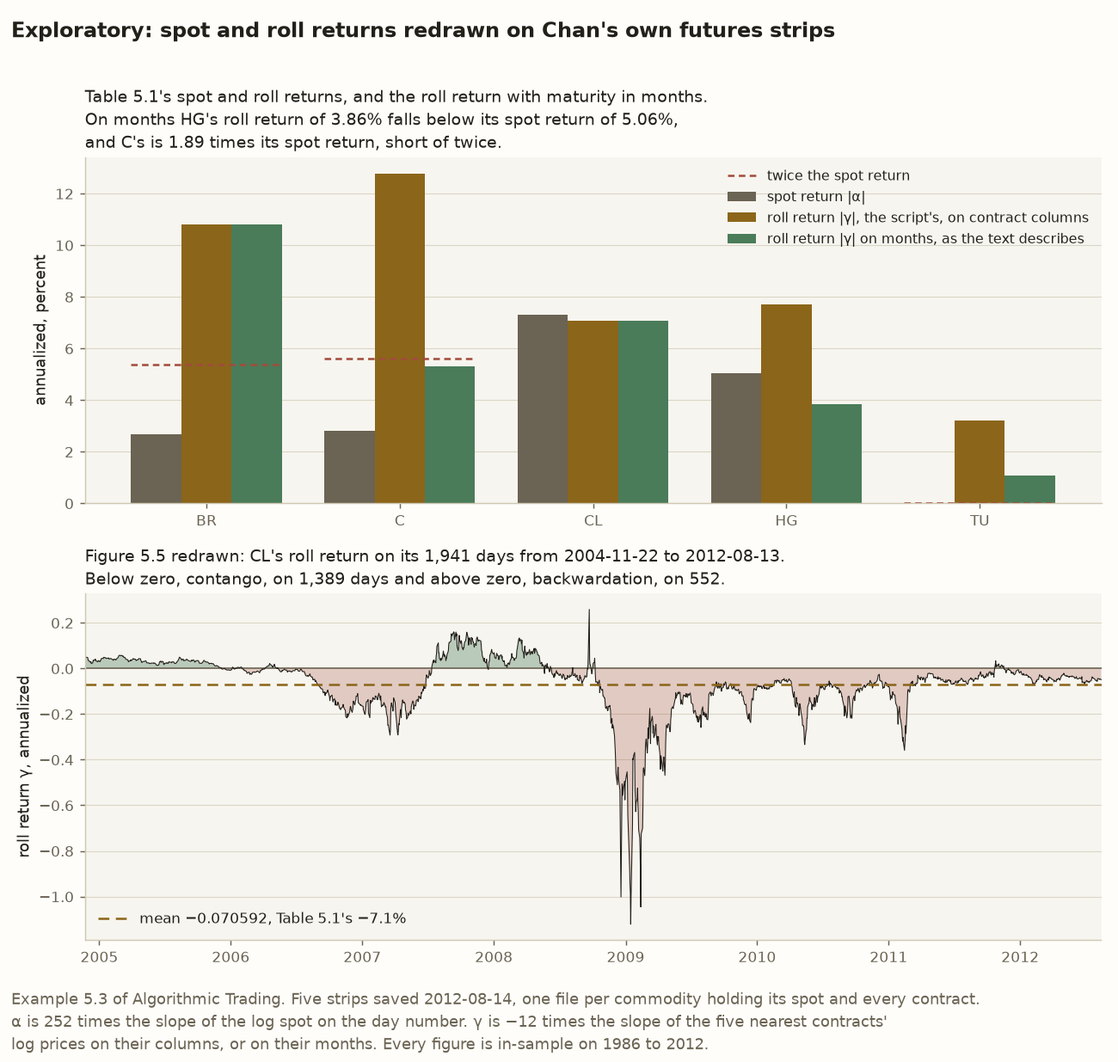
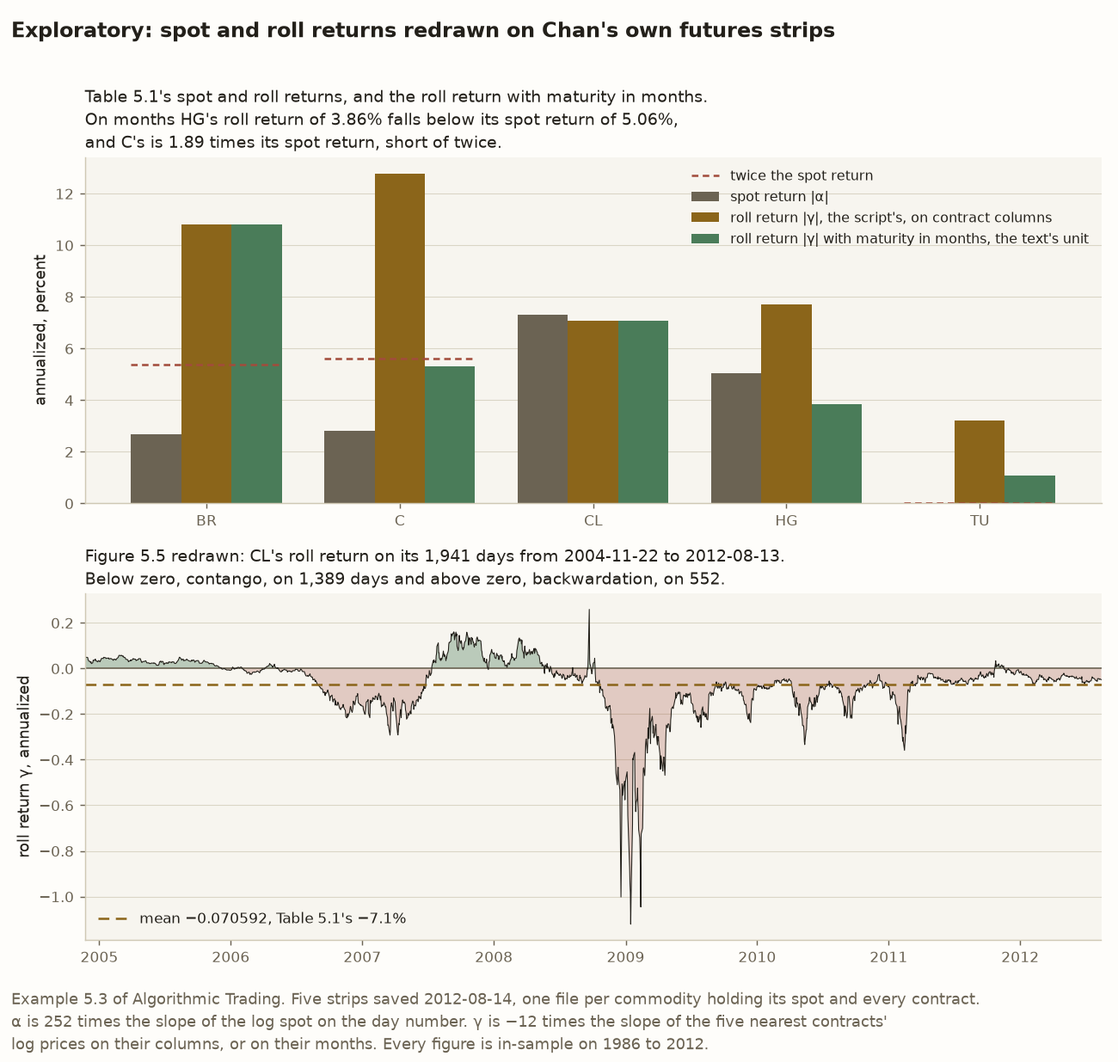
docs(blog): apply the review of the Entry 27 post
Correct what the review lenses found false, overstated or unclear. The
overstatement runs 2.0 to 3.0 times, not 2.4 to 3.0. The title says the
column count inflates three of the five rather than that three count
contracts. 'Loses a strip' becomes 'fails for one future', the post names
its two fits the column fit and the month fit, and 'the build' and 'a
scratch run' become what happened. The location 2399 quotation keeps
'the magnitude', location 2385 says cointegrates with a gloss, and
location 2399's slowly varying gamma is about the estimate rather than
the model. Lesson 4 states BR's and HG's counts with no pass or fail
against location 2683 and drops the unpinned 'changes sign most'. Entry
27 is said to record Lessons 1 to 3, not every figure. The alt text dates
CL's first contango dip from mid-2006. Two trader habits no longer give
advice nothing here tested.

tests/test_book_notes.py ties the caption's Figure 5.5 to the caption
location 2399's notes record. The figure's legend calls months the text's
unit rather than the text's method. README's lists move 5.06 and 3.86 to
the heading test and add the port's 2018 date. Entry 27's third limit
names Entries 34 and 36, which the post already links.

Part of #458

Changed region(s): [[0.6154, 0.1538, 0.9846, 0.2462]]

diff --git a/src/chan/roll_returns_figures.py b/src/chan/roll_returns_figures.py
@@ -6,9 +6,9 @@ figure for it. :func:`make_roll_returns_figure` draws two panels.
 
 1. Each strip's spot return and both roll returns as bars, in percent: the
    script's γ, which regresses on contract columns and printed Table 5.1, and
-   the γ regressed on months, which the book's text describes. A tick over BR,
-   C and TU marks twice the spot return, the bar location 2399's claim was
-   read against. Neither of Chan's figures shows this, because both draw CL,
+   the γ regressed on months, the unit the book's text names. A tick over BR,
+   C and TU marks twice the spot return, the threshold location 2399's claim
+   was read against. Neither of Chan's figures shows this, because both draw CL,
    whose contracts are a month apart.
 2. CL's γ on every day it is defined, the book's Figure 5.5, shaded above zero
    for backwardation and below for contango, with its mean drawn across it.
@@ -101,7 +101,7 @@ def make_roll_returns_figure(
         (
             ("alpha", MUTED, "spot return |α|"),
             ("gamma-columns", ACCENT, "roll return |γ|, the script's, on contract columns"),
-            ("gamma-months", GOOD, "roll return |γ| on months, as the text describes"),
+            ("gamma-months", GOOD, "roll return |γ| with maturity in months, the text's unit"),
         ),
         strict=True,
     ):

diff --git a/tests/test_book_notes.py b/tests/test_book_notes.py
@@ -147,3 +147,19 @@ def test_the_usdcad_post_cites_the_figure_number_the_notes_record() -> None:
     captions = [line for line in post.splitlines() if line.startswith("*USD.CAD’s closes")]
     assert len(captions) == 1
     assert re.findall(r"Figure (\d+\.\d+)", captions[0]) == [recorded.group(1)]
+
+
+def test_the_roll_returns_post_cites_the_figure_number_the_notes_record() -> None:
+    """The post's caption names Figure 5.5, which location 2399's recovered text captions.
+
+    Location 2399 holds two captions, Figure 5.4's scatter and Figure 5.5's line of
+    CL's roll return, so the caption must cite the one whose words name γ for CL.
+    """
+    notes = (NOTES_DIR / "algorithmic-trading.md").read_text(encoding="utf-8")
+    entry = notes.partition("### Location 2399 ")[2].partition("\n### ")[0]
+    recorded = re.search(r"FIGURE (\d+\.\d+) Values of the Roll Return γ for CL\.", entry)
+    assert recorded, "location 2399 holds no caption for CL's roll return"
+    post = (NOTES_DIR.parents[1] / "blog" / "roll-returns-lessons.md").read_text(encoding="utf-8")
+    captions = [line for line in post.splitlines() if line.startswith("*Each strip’s spot return")]
+    assert len(captions) == 1
+    assert re.findall(r"Figure (\d+\.\d+)", captions[0]) == [recorded.group(1)]

diff --git a/tests/test_roll_returns.py b/tests/test_roll_returns.py
@@ -2,9 +2,9 @@
 
 This file is the single authority for every number any prose surface quotes
 about Example 5.3, with one exception, in ``blog/roll-returns-lessons.md``.
-That post also quotes its figure's labels, which
-``tests/test_roll_returns_figures.py`` holds, and README lists what the post
-says that nothing asserts. ``docs/replication-log.md`` carries the verdicts
+That post also quotes two kinds of number held elsewhere: its figure's labels,
+which ``tests/test_roll_returns_figures.py`` holds, and the figures README
+lists as asserted nowhere. ``docs/replication-log.md`` carries the verdicts
 and points here row by row. The rows are the ones
 [issue 347](https://github.com/l3a0/quantitative-trading/issues/347) declared
 before the build, under "The pins".

diff --git a/tests/test_roll_returns_figures.py b/tests/test_roll_returns_figures.py
@@ -167,7 +167,7 @@ class TestTheBars:
             "twice the spot return",
             "spot return |α|",
             "roll return |γ|, the script's, on contract columns",
-            "roll return |γ| on months, as the text describes",
+            "roll return |γ| with maturity in months, the text's unit",
         ]
 
     def test_the_heading_quotes_hg_and_c_on_months(self, axes) -> None:

diff --git a/blog/roll-returns-lessons.md b/blog/roll-returns-lessons.md
@@ -1,6 +1,6 @@
-# Chan’s spot and roll returns reproduce on his own files, and three of the five count contracts where the text says months
+# Chan’s spot and roll returns reproduce on his own files, and for three of the five, counting contracts where the text says months inflates the roll return
 
-*Table 5.1 of Algorithmic Trading splits five futures’ returns into spot and roll returns. Eight of its ten cells land on Chan’s own files. His script counts contracts where the text says months, and in months each of the book’s two claims loses a strip.*
+*Table 5.1 of Algorithmic Trading splits five futures’ returns into spot and roll returns. Eight of ten cells land on Chan’s own files. His script counts contracts where the text says months, and in months each of the book’s claims fails for one future.*
 
 ## Why split a future’s return in two
 
@@ -8,13 +8,13 @@ A futures contract has to end up at the spot price, the price of the thing it is
 
 The direction of the drift has a name. When the contracts nearest to expiry trade above the later ones, the market is in **backwardation**, and a holder earns a positive roll return as each contract climbs toward the spot. When the near contracts trade below the later ones, the market is in **contango**, and the roll return is negative (location 2326).
 
-The split matters because it decides what a trader actually earns. Chan writes that misjudging it “cost me more than \$100,000 in trading loss” in 2006, his first year trading on his own (location 2385). The subtlety was that an ETF of commodity producers can move with the commodity’s spot price and not with its futures price, because the roll return separates the two. Chapter 6 then leans on the split to explain why some futures trend: their roll returns keep one sign for long stretches and outweigh their spot returns (location 2683).
+The split matters because it decides what a trader earns. Chan writes that misjudging it “cost me more than \$100,000 in trading loss” in 2006, his first year trading on his own (location 2385). His example is an ETF of commodity producers, which usually **cointegrates** with the commodity’s spot price, meaning the two keep a stable long-run relation, yet may not cointegrate with its futures price, because the roll return separates the future from the spot. Chapter 6 then leans on the split to explain why some futures trend: their roll returns keep one sign for long stretches and outweigh their spot returns (location 2683).
 
 Chan’s Example 5.3 measures both parts for five futures: the Brazilian real (BR), corn (C), WTI crude oil (CL), copper (HG) and the two-year US Treasury note (TU). Table 5.1 prints the averages. This repository ran his script, `estimateFuturesReturns.m`, on his own data files and found three things.
 
 1. **Eight of Table 5.1’s ten cells land.** HG’s and TU’s spot returns miss, by a tenth of a point and by a sign, on the files Chan saved himself.
-2. **The script counts contracts, not months.** The text says the time to maturity is measured in months. The script regresses on contract positions 1 to 5, so for the three futures whose contracts are not a month apart it overstates the roll return, by 2.4 to 3.0 times.
-3. **In months, each of the book’s two claims loses a strip.** HG’s roll return falls below its spot return, and C’s falls short of twice its spot return.
+2. **The script counts contracts, not months.** The text says the time to maturity is measured in months. The script regresses on contract positions 1 to 5, so for the three futures whose contracts are not a month apart it overstates the roll return, by 2.0 to 3.0 times.
+3. **In months, each of the book’s two claims fails for one future.** HG’s roll return falls below its spot return, and C’s falls short of twice its spot return.
 
 **Every result here is exploratory.** Chan chose the model, the futures and the dates, and the reproduction runs them on the same files. It can say whether his numbers follow from his data and nothing about whether a roll return persists after 2012.
 
@@ -36,9 +36,9 @@ Two readings of that one line give the two returns.
 So the estimates are two regressions, each a straight line fitted through points with its slope read off.
 
 1. **The spot return α** is the slope of the log spot price on the day number, times 252 trading days a year.
-2. **The roll return γ** comes from one day at a time. The script takes the five nearest contracts with prices that day, fits their log prices against their time to maturity, and multiplies the slope by −12 to turn a slope per month into a return per year. That line is the day’s **forward curve**, which location 2399 glosses as “the future price as a function of maturity date”. The figure the table reports is the mean of γ over every day the fit runs.
+2. **The roll return γ** comes from one day at a time. The script takes the five nearest contracts with prices that day, when they are consecutive contracts, fits their log prices against their time to maturity, and multiplies the slope by −12 to turn a slope per month into a return per year. That line is the day’s **forward curve**, which location 2399 glosses as “the future price as a function of maturity date”. The figure the table reports is the mean of γ over every day the fit runs.
 
-The data is Chan’s own: five MATLAB files saved on 2012-08-14, which this post calls **strips**. Each strip holds one commodity’s spot price and the daily settlement of every contract, all on one calendar of trading days. Chan’s corn file is named C2, and it is the C of Table 5.1. The strips start as early as 1986, and γ is defined on 1,087 to 6,028 days per strip, ending in March 2012 for C and in August 2012 for the rest. The rules that decide each result are in [Entry 27 of the replication log](https://github.com/l3a0/quantitative-trading/blob/main/docs/replication-log.md#entry-27-spot-and-roll-returns-of-five-futures-chans-algorithmic-trading), which records every figure below beside the assertion that computes it.
+The data is Chan’s own: five MATLAB files saved on 2012-08-14, which this post calls **strips**. Each strip holds one commodity’s spot price and the daily settlement of every contract, all on one calendar of trading days. Chan’s corn file is named C2, and it is the C of Table 5.1. The strips start as early as 1986, and γ is defined on 1,087 to 6,028 days per strip, ending in March 2012 for C and in August 2012 for the rest. The rules that decide each result are in [Entry 27 of the replication log](https://github.com/l3a0/quantitative-trading/blob/main/docs/replication-log.md#entry-27-spot-and-roll-returns-of-five-futures-chans-algorithmic-trading), which records Table 5.1 and the figures of Lessons 1 to 3 beside the assertions that compute them.
 
 ## Lesson 1: eight of ten cells land on Chan’s own files
 
@@ -60,7 +60,10 @@ Eight cells land. Two miss.
 1. **HG’s spot return** is 5.06 percent, which rounds to 5.1 against the printed 5.0.
 2. **TU’s spot return** is positive. The book prints −0.0, a negative number that rounds to zero, and 0.0039 percent rounds to zero from the other side.
 
-Two more checks land exactly. CL’s γ is first defined on 2004-11-22 and last on 2012-08-13, the span Chan gives for his Figure 5.5. Chan’s 2018 Python port of the script prints C’s two figures in full in its comments, 0.02805562210100287 and −0.12775650227459556, and the run here agrees with both to within 10⁻¹².
+Two more checks agree exactly.
+
+1. **CL’s γ** is first defined on 2004-11-22 and last on 2012-08-13, the span Chan gives for his Figure 5.5.
+2. **C’s two figures** agree with Chan’s 2018 Python port of the script, which prints them in full in its comments, 0.02805562210100287 and −0.12775650227459556. The run here agrees with both to within 10⁻¹².
 
 The misses come from Chan’s own saved files, so a vendor revising its price history cannot explain them. Three other readings of α were tried after the miss.
 
@@ -74,9 +77,9 @@ Neither miss changes what the table is used to argue. HG’s is a tenth of a poi
 
 ## Lesson 2: the script counts contracts, not months
 
-Location 2399 says the fit runs against each contract’s time to maturity, “measured in months”. The script does something simpler. It regresses the five log prices on the numbers 1 to 5, their positions in the list, and multiplies the slope by −12. That treats neighbouring contracts as one month apart. For a future with a contract every month, the two agree. For one without, they do not.
+Location 2399 says the fit runs against each contract’s time to maturity, “measured in months”. The script does something simpler. It regresses the five log prices on the numbers 1 to 5, their positions in the list, which are the columns of Chan’s file, and multiplies the slope by −12. This post calls that the **column fit**, and the same regression on each contract’s month the **month fit**. That treats neighbouring contracts as one month apart. For a future with a contract every month, the two agree. For one without, they do not.
 
-A planted example shows the size of the gap. Build a forward curve with a roll return of exactly 0.03 a year on quarterly contracts, March, June, September, December and the next March. Neighbouring contracts are three months apart, so the price falls three months’ worth from one to the next. The month fit recovers 0.03. The column fit reads that three-month step as one month’s and returns 0.09, three times too large.
+A planted example shows how large the difference is. Build a forward curve with a roll return of exactly 0.03 a year on quarterly contracts, March, June, September, December and the next March. Neighbouring contracts are three months apart, so the price falls three months’ worth from one to the next. The month fit recovers 0.03. The column fit reads that three-month step as one month’s and returns 0.09, three times too large.
 
 The five strips split the same way. Across every day each strip’s γ is defined, the five nearest contracts are spaced like this.
 
@@ -85,11 +88,11 @@ The five strips split the same way. Across every day each strip’s γ is define
 3. **C** mixes gaps of two and three months, in five patterns.
 4. **HG** mixes gaps of one, two and three months, in six patterns.
 
-Measuring maturity in months instead gives this, beside the script’s figure.
+The month fit gives this, beside the column fit.
 
 ```math
 \begin{array}{l|r|r}
-\text{Future} & \gamma\ \text{on columns, the script} & \gamma\ \text{on months} \\ \hline
+\text{Future} & \gamma\ \text{column fit, the script} & \gamma\ \text{month fit} \\ \hline
 \text{BR} & 0.108133 & 0.108133 \\
 \text{C} & -0.127757 & -0.053011 \\
 \text{CL} & -0.070592 & -0.070592 \\
@@ -100,35 +103,35 @@ Measuring maturity in months instead gives this, beside the script’s figure.
 
 BR’s and CL’s agree to within 10⁻¹³, as monthly contracts must. Table 5.1 overstates C’s roll return by 2.4 times, HG’s by 2.0 and TU’s by 3.0.
 
-The month-spaced figures carry no verdict. Chan printed none for them, and they are this repository’s reading of his sentence. The script’s figures are the ones that land, so the script is what printed Table 5.1.
+The month fit’s figures carry no verdict. Chan printed none for them, and they are this repository’s reading of his sentence. The script’s figures are the ones that land, so the script is what printed Table 5.1.
 
-## Lesson 3: in months, each of the book’s claims loses a strip
+## Lesson 3: in months, each of the book’s claims fails for one future
 
 The book draws two claims from the table.
 
-1. **Location 2399** says that for BR, C and TU, the roll return is “much larger than that of the spot returns”. The replication read “much larger” as at least twice, a pass mark written down before the build, though after a scratch run had already measured the figures.
+1. **Location 2399** says that for BR, C and TU, the magnitude of the roll return is “much larger than that of the spot returns”. The replication read “much larger” as at least twice. That [pass mark was written down](https://github.com/l3a0/quantitative-trading/blob/main/docs/replication-log.md#entry-27-spot-and-roll-returns-of-five-futures-chans-algorithmic-trading) before the replication’s code existed, though after a first rough run had already measured the figures.
 2. **Location 2683** says BR, HG and TU have roll returns “bigger in magnitude than their spot returns”, which is why Chapter 6 expects them to trend.
 
-Under the script’s γ, both hold. BR is the narrowest case for the first claim, with a roll return 4.02 times its spot return, so the verdict does not rest on where the line sits. CL is the one strip whose roll return is smaller than its spot return, and neither claim names it.
+Under the script’s γ, both hold. BR is the narrowest case for the first claim, with a roll return 4.02 times its spot return, so the verdict does not depend on exactly where the threshold of twice sits. CL is the one strip whose roll return is smaller than its spot return, and neither claim names it.
 
-Under the month-spaced γ, each claim loses a strip.
+Under the month fit, each claim fails for one future.
 
 1. **HG fails the second claim.** Its roll return of 3.86 percent is smaller than its spot return of 5.06 percent. So the comparison Chapter 6 rests its HG explanation on holds only under the script’s arithmetic.
 2. **C fails the first.** Its roll return is 1.89 times its spot return, short of twice.
 
-BR and TU hold either way. The pass marks were not written at the same moment, which is one more reason the month-spaced results carry no verdict. Only the second claim’s pass mark was declared for the month-spaced γ before the build. The first claim’s was applied to it at the build, after the figures were seen.
+BR and TU hold either way. The month fit’s results carry no verdict for a second reason. The pass mark for the second claim was written down for the month fit before the code existed. The pass mark for the first claim was applied to it only afterwards, once the figures had been seen.
 
 Neither claim tests what Chapter 6 uses it for. Comparing two averages says nothing about whether a roll return explains any momentum.
 
-The figure below sets out both lessons. The upper panel puts each strip’s spot return and its two roll returns side by side, and the lower panel redraws Chan’s Figure 5.5.
+The figure below sets out Lessons 2 and 3 in its upper panel, each strip’s spot return beside its two roll returns. Its lower panel redraws Chan’s Figure 5.5 for Lesson 4.
 
-![Two charts stacked. The upper chart is a bar chart with five groups, BR, C, CL, HG and TU, each holding three bars in percent per year. A grey bar shows the size of the spot return, a brown bar the script’s roll return, and a green bar the roll return with maturity in months. For BR the brown and green bars are equal at about 10.8, well above a dashed red tick at twice the grey bar. For C the brown bar reaches about 12.8 while the green bar, about 5.3, sits just under the dashed tick at twice the 2.8 spot return. For CL all three bars are near 7. For HG the brown bar is about 7.7, above the grey bar of about 5.1, while the green bar of about 3.9 falls below it. For TU the grey bar is invisible at almost zero, the brown bar is about 3.2 and the green about 1.1. The lower chart plots CL’s daily roll return from late 2004 to August 2012 as a thin black line around a horizontal zero line. Areas above zero are shaded green and areas below shaded red. The line sits just above zero through 2005, dips below to about −0.3 in 2007, rises above zero to about 0.15 from mid-2007 to mid-2008, spikes briefly to about 0.26 in September 2008, then plunges to about −1.1 in January 2009. It stays below zero, with dips to between −0.2 and −0.5, until late 2011, and ends just below zero. A dashed brown line marks the mean of −0.070592. The title calls the redraw exploratory.](../docs/figures/roll_returns.png)
+![Two charts stacked. The upper chart is a bar chart with five groups, BR, C, CL, HG and TU, each holding three bars in percent per year. A grey bar shows the size of the spot return, a brown bar the script’s roll return, and a green bar the roll return with maturity in months. For BR the brown and green bars are equal at about 10.8, well above a dashed red tick at twice the grey bar. For C the brown bar reaches about 12.8 while the green bar, about 5.3, sits just under the dashed tick at twice the 2.8 spot return. For CL all three bars are near 7. For HG the brown bar is about 7.7, above the grey bar of about 5.1, while the green bar of about 3.9 falls below it. For TU the grey bar is invisible at almost zero, the brown bar is about 3.2 and the green about 1.1. The lower chart plots CL’s daily roll return from late 2004 to August 2012 as a thin black line around a horizontal zero line. Areas above zero are shaded green and areas below shaded red. The line sits near zero through 2005 and early 2006, then dips below zero from mid-2006 to about −0.3 in the first half of 2007, rises above zero to about 0.15 from mid-2007 to mid-2008, spikes briefly to about 0.26 in September 2008, then plunges to about −1.1 in January 2009. It stays below zero, with dips to between −0.2 and −0.5, until late 2011, and ends just below zero. A dashed brown line marks the mean of −0.070592. The title calls the redraw exploratory.](../docs/figures/roll_returns.png)
 
-*Each strip’s spot return and two roll returns, with a tick at twice the spot return where location 2399’s claim applies, and CL’s roll return day by day, redrawn on Chan’s strips saved 2012-08-14. The upper panel redraws Table 5.1 with the month-spaced roll return beside it, and the lower panel redraws the book’s Figure 5.5, CL’s roll return from November 22, 2004, to August 13, 2012.*
+*Each strip’s spot return and two roll returns, with a tick at twice the spot return where location 2399’s claim applies, and CL’s roll return day by day, redrawn on Chan’s strips saved 2012-08-14. The upper panel redraws Table 5.1 with the month fit’s roll return beside it, and the lower panel redraws the book’s Figure 5.5, CL’s roll return from November 22, 2004, to August 13, 2012.*
 
 ## Lesson 4: the average hides a roll return that drifts and changes sign
 
-Table 5.1 prints one number per future, and the model behind it says γ is constant. Chan says himself that it is not: the fit depends on the day and the contracts trading then, so “we will still end up with a slowly varying estimated γ” (location 2399). The lower panel of the figure shows how far it varies for CL.
+Table 5.1 prints one number per future, and the model behind it says γ is constant. Chan says himself that the estimate will not be: the fit depends on the day and the contracts trading then, so “we will still end up with a slowly varying estimated γ” (location 2399). The lower panel of the figure shows how far it varies for CL.
 
 1. **Mostly contango.** CL’s γ is negative on 1,389 of its 1,941 days and positive on 552.
 2. **Long runs, with many breaks.** It changes sign 29 times. Its longest run of one sign is contango, from 2008-10-09 to 2011-10-21, 766 days.
@@ -136,19 +139,19 @@ Table 5.1 prints one number per future, and the model behind it says γ is const
 
 Chapter 6’s explanation needs the sign to stay put. Location 2683 says “the sign of roll returns does not vary very often”, so that holding a future for long collects a roll return of one sign. The strips differ on that.
 
-1. **BR** fits the sentence. Its γ is negative on 3 of its 4,210 days.
-2. **HG** does not. Its γ is positive on 3,139 of its 6,028 days, a little over half, and changes sign 198 times.
+1. **BR’s γ** is negative on 3 of its 4,210 days.
+2. **HG’s γ** is positive on 3,139 of its 6,028 days, a little over half, and changes sign 198 times, against CL’s 29.
 
-So HG, the strip whose explanation Lesson 3 already weakened, is also the strip whose roll return changes sign most. These counts carry no verdict. Nobody wrote down beforehand how few sign changes count as “not very often”, so no pass mark existed when they were measured.
+These counts carry no verdict. Nobody wrote down beforehand how few sign changes count as “not very often”, so no pass mark existed when they were measured.
 
-This is the first limit Entry 27 names. The table reproduces the mean of a series that drifts, and reproducing a mean does not test the model that calls it constant. The result stays exploratory. It shows what Chan’s own files hold and nothing about a roll return’s sign in later years.
+Reproducing the mean of a series that drifts does not test the model that calls it constant, and the counts stay exploratory, about Chan’s files and not about later years.
 
 ## What this replication cannot say
 
 Three questions are beyond it.
 
 1. **Whether returns are constant.** The model is the book’s simplification, and Lesson 4 shows γ drifting. The replication reproduces the mean of the drifting series without testing the model.
-2. **Whether the month-spaced γ is what Chan meant.** It is this repository’s reading of his sentence, and he printed no figure for it.
+2. **Whether the month fit is what Chan meant.** It is this repository’s reading of his sentence, and he printed no figure for it.
 3. **Whether a roll return persists.** Every figure is in-sample on 1986 to 2012. Two later examples in the book trade on γ, a [crude oil calendar spread](https://github.com/l3a0/quantitative-trading/blob/main/docs/replication-log.md#entry-34-mean-reversion-on-crude-oils-12-month-calendar-spread-chans-algorithmic-trading) and [TU momentum traded on the lagged roll return](https://github.com/l3a0/quantitative-trading/blob/main/docs/replication-log.md#entry-36-tu-momentum-traded-on-the-lagged-roll-return-chans-algorithmic-trading), and each has its own entry in the replication log.
 
 ## What this means for a trader
@@ -157,8 +160,8 @@ One habit for each lesson.
 
 1. **Test the arithmetic once the data is ruled out.** When a figure misses on the author’s own saved file, a vendor’s revision cannot explain it. Try the readings the arithmetic allows, and keep the one the script states.
 2. **Check the units a script regresses on.** A slope annualized by 12 assumes monthly steps, and quarterly contracts triple it.
-3. **Re-run a claim under the method the text describes.** When text and script disagree, a conclusion that holds under only one of them rests on the arithmetic rather than the idea.
-4. **Read the series behind an average.** A mean roll return can hide long runs, sign changes and extremes many times its size, and a trade that relies on the sign needs the run, not the mean.
+3. **Re-run a claim under the method the text describes.** When text and script disagree, run the claim both ways and report which one it holds under.
+4. **Read the series behind an average.** A mean roll return can hide long runs, sign changes and extremes many times its size, so a claim about the sign needs the series, not the mean.
 
 ## References
 

diff --git a/README.md b/README.md
@@ -3752,11 +3752,11 @@ replication log.
    overstates C's, HG's and TU's roll returns by 2.4, 2.0 and 3.0 times.
 3. With maturity in months, HG's roll return falls below its spot return and
    C's falls short of twice its spot return, so each of the book's two claims
-   loses a strip.
+   fails for one future.
 4. CL's roll return, the series behind the table's mean, sits in contango on
    most days, changes sign 29 times and reaches −1.121372, and HG's changes
-   sign 198 times, which location 2683's "does not vary very often" does not
-   describe.
+   sign 198 times, with no criterion for location 2683's "does not vary very
+   often" written down before the counts.
 
 Five groups of what it says are not pinned here.
 
@@ -3773,14 +3773,18 @@ Five groups of what it says are not pinned here.
 2. Facts about the script rather than the data: that it numbers the days with
    `T=[1:length(spot)]'`, prints with `%f`, and annualizes by 252 and by −12,
    which `estimateFuturesReturns.m` holds at `e4bc46f` of
-   ericnberwick/EpchanPreview.
+   ericnberwick/EpchanPreview, and that its Python port dates from 2018. The
+   figure number the caption cites, 5.5, is the one the notes record at
+   location 2399, which
+   [tests/test_book_notes.py](tests/test_book_notes.py) holds, and the book's
+   chart is compared with the redraw only by its first and last days.
 3. Readings no test asserts: the algebra of the model, that a held contract
    earns α + γ and that one day's log prices fall on a line of slope −γ, and
    the reading of location 2385 that the roll return separates a producer
    ETF from the commodity's future.
 4. Figures the post rounds from pinned ones or takes between them in words:
-   5.06, 3.86 and 0.0039 percent, "a little over half", and "less than four
-   months later". The figure's alt text reads its bars and its line
+   0.0039 percent, "a little over half", and "less than four months later".
+   The figure's heading test holds 5.06 and 3.86 percent. The figure's alt text reads its bars and its line
    approximately too, such as "about 5.3" and "about −1.1".
 5. Its references, cited rather than computed.
 

diff --git a/docs/replication-log.md b/docs/replication-log.md
@@ -5914,7 +5914,7 @@ Chan printed no figure for them, so they carry no verdict.
 
 **Whether a roll return persists.** Every row is in-sample on 1986 to 2012.
 The two experiments that trade on γ, Example 5.4 and the TU momentum test,
-carry their own issues.
+are Entries 34 and 36.
 
 Nothing checks this entry against the suite, for the reason Entry 1 states. A
 change to any assertion named above moves this entry in the same commit, and
